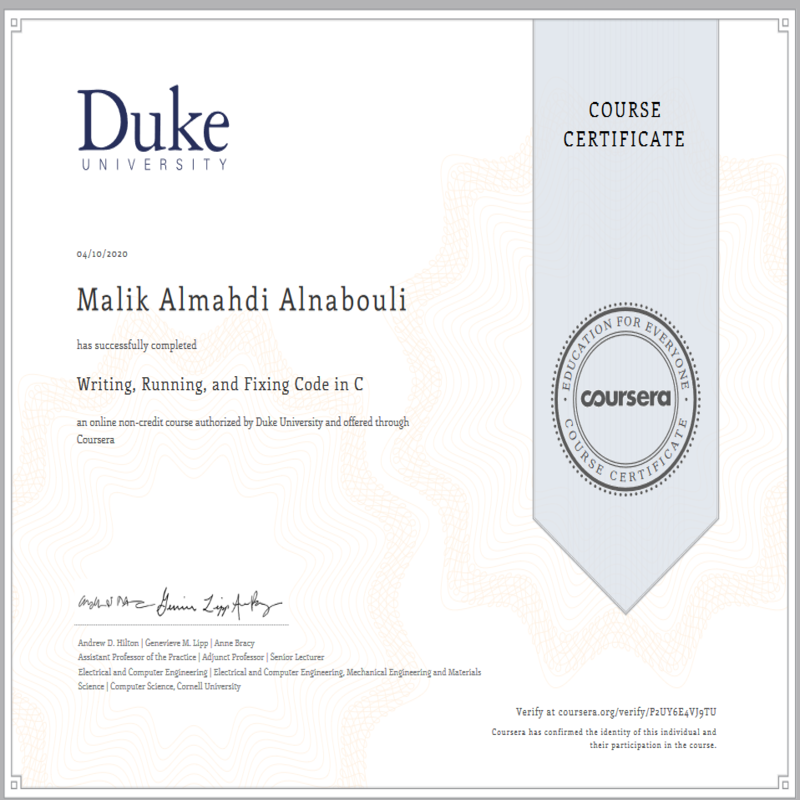
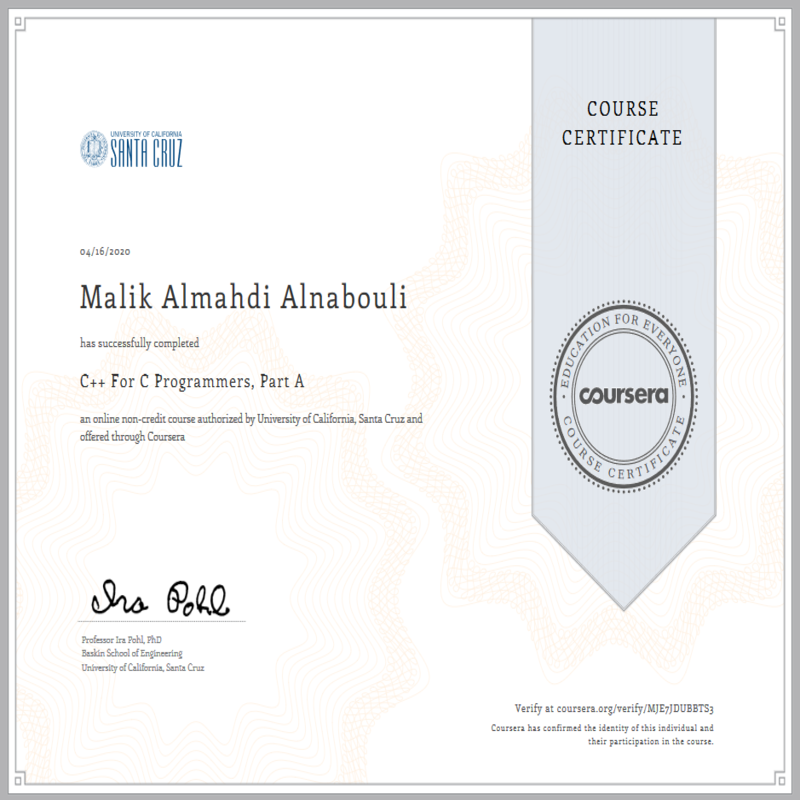
test2

diff --git a/public/css/style.css b/public/css/style.css
@@ -145,22 +145,22 @@ ul {
 
 @media (max-width: 575px) {
     /* line 25, ../../01 cl html template/New folder/May 2019/173 Hipstyle Barber/Hipstyle Barber template/sass/_button.scss */
-    .btn_1 {
+    .btn_2 {
         padding: 9.5px 28px;
-        margin-top: 25px;
+        margin-top: 10px;
     }
 }
 
 @media only screen and (min-width: 576px) and (max-width: 767px) {
     /* line 25, ../../01 cl html template/New folder/May 2019/173 Hipstyle Barber/Hipstyle Barber template/sass/_button.scss */
-    .btn_1 {
+    .btn_2 {
         padding: 9.5px 28px;
     }
 }
 
 @media only screen and (min-width: 768px) and (max-width: 991px) {
     /* line 25, ../../01 cl html template/New folder/May 2019/173 Hipstyle Barber/Hipstyle Barber template/sass/_button.scss */
-    .btn_1 {
+    .btn_2 {
         padding: 9.5px 28px;
     }
 }
@@ -179,6 +179,7 @@ ul {
     color: #fff;
     border: 2px solid #fff;
     font-family: "Roboto", sans-serif;
+    ;
 }
 
 
@@ -186,29 +187,7 @@ ul {
 
 .btn_2:hover {
     background-color: #fff;
-    color: #000;
-}
-
-@media (max-width: 575px) {
-    /* line 56, ../../01 cl html template/New folder/May 2019/173 Hipstyle Barber/Hipstyle Barber template/sass/_button.scss */
-    .btn_2 {
-        padding: 9.5px 28px;
-        margin-top: 25px;
-    }
-}
-
-@media only screen and (min-width: 576px) and (max-width: 767px) {
-    /* line 56, ../../01 cl html template/New folder/May 2019/173 Hipstyle Barber/Hipstyle Barber template/sass/_button.scss */
-    .btn_2 {
-        padding: 9.5px 28px;
-    }
-}
-
-@media only screen and (min-width: 768px) and (max-width: 991px) {
-    /* line 56, ../../01 cl html template/New folder/May 2019/173 Hipstyle Barber/Hipstyle Barber template/sass/_button.scss */
-    .btn_2 {
-        padding: 9.5px 28px;
-    }
+    color: #f81c1c;
 }
 
 
@@ -260,7 +239,7 @@ ul {
 /* line 38, ../../01 cl html template/New folder/May 2019/173 Hipstyle Barber/Hipstyle Barber template/sass/_menu.scss */
 
 .single_page_menu.menu_fixed .main-menu-item ul li .nav-link:hover {
-    color: #000 !important;
+    color: #0c1028 !important;
 }
 
 
@@ -428,7 +407,7 @@ ul {
     }
     /* line 185, ../../01 cl html template/New folder/May 2019/173 Hipstyle Barber/Hipstyle Barber template/sass/_menu.scss */
     .navbar-brand img {
-        max-width: 100px;
+        max-width: 75px;
     }
     /* line 189, ../../01 cl html template/New folder/May 2019/173 Hipstyle Barber/Hipstyle Barber template/sass/_menu.scss */
     .navbar-light .navbar-toggler {
@@ -441,7 +420,7 @@ ul {
 @media only screen and (min-width: 576px) and (max-width: 767px) {
     /* line 198, ../../01 cl html template/New folder/May 2019/173 Hipstyle Barber/Hipstyle Barber template/sass/_menu.scss */
     .main_menu {
-        padding: 10px 0px;
+        padding: 0px 0px;
     }
     /* line 202, ../../01 cl html template/New folder/May 2019/173 Hipstyle Barber/Hipstyle Barber template/sass/_menu.scss */
     .home_menu .main-menu-item {
@@ -914,10 +893,6 @@ ul {
 
 
 /* line 178, ../../01 cl html template/New folder/May 2019/173 Hipstyle Barber/Hipstyle Barber template/sass/_banner.scss */
-
-.banner_part .banner_text .btn_2 {
-    margin-left: 15px;
-}
 
 
 /* line 180, ../../01 cl html template/New folder/May 2019/173 Hipstyle Barber/Hipstyle Barber template/sass/_banner.scss */

diff --git a/resources/views/home.blade.php b/resources/views/home.blade.php
@@ -29,7 +29,7 @@
             <div class="row align-items-center">
                 <div class="col-lg-12">
                     <nav class="navbar navbar-expand-lg navbar-light">
-                        <a class="navbar-brand" href="{{route('home')}}"> <img src="img/logopng3.png" alt="logo"> </a>
+                        <a class="navbar-brand" href="{{route('home')}}"> <img src="img/logopng3.png" alt="Malik's Logo"> </a>
                         <button class="navbar-toggler" type="button" data-toggle="collapse" data-target="#navbarSupportedContent" aria-controls="navbarSupportedContent" aria-expanded="false" aria-label="Toggle navigation">
                             <span style=" top: -16px; right: 11px; color: #fff; font-size: 33px;" class="fa fa-bars"></span>
                         </button>
@@ -120,10 +120,10 @@
                             <h5>Hey there i'm</h5>
                             <h1>Malik Alnabouli</h1>
                             <h2 style="color: white; margin-top: -20px;">Full Stack Developer</h2>
-                            <p>A student at the University of Tripoli, Computer Science <\></p>
+                            <p> student at Tripoli University, Computer Science <\> </p>
                             <div class="banner_btn">
-                                <a href="#" class="btn_1">Contact Me</a>
-                                <a href="#" class="btn_2">Hire Me</a>
+                                {{-- <a href="#" class="btn_1">Contact Me</a> --}}
+                                <a href="#" class="btn_2">Contact Me</a>
                             </div>
                         </div>
                     </div>
@@ -157,7 +157,7 @@
                             <img src="img/web2.png" alt="">
                         </div>
                         <h3>Web Development</h3>
-                        <p>Lorem ipsum dolor sit amet, consectetur adipiscing elit sed do eiusmod tempor.</p>
+                        <p>web publishing, web programming, and database management using laravel, php and mysql.</p>
                     </div>
                 </div>
                 <div class="col-xl-4 col-md-4">
@@ -166,7 +166,7 @@
                             <img src="img/64.png" alt="">
                         </div>
                         <h3>Web Design</h3>
-                        <p>Lorem ipsum dolor sit amet, consectetur adipiscing elit sed do eiusmod tempor.</p>
+                        <p> creates the look, layout, and features of a website using Adobe XD, html, css, js, Bootstrp.</p>
                     </div>
                 </div>
                 <div class="col-xl-4 col-md-4">
@@ -175,7 +175,7 @@
                             <img src="img/php.png" alt="">
                         </div>
                         <h3>PHP Developer</h3>
-                        <p>Lorem ipsum dolor sit amet, consectetur adipiscing elit sed do eiusmod tempor.</p>
+                        <p>fast PHP to a high standard, develop back-end components, connect the application with other web services.</p>
                     </div>
                 </div>
             </div>
@@ -204,16 +204,17 @@
     				<div class="project img ftco-animate d-flex justify-content-center align-items-center" style="background-image: url(img/project/library.png);">
     					<div class="overlay"></div>
 	    				<div class="text text-center p-4">
-	    					<h3><a href="#">Electronic Science Library</a></h3>
+	    					<h3 style="color: #fff;">Electronic Science Library</h3>
 	    					<h5 style="color: #fff;">Web Design</h5>
+                            <p style="color: #fff;" style="color; #fff;"> The Electronic science library was designed to help the students of the college of science to reach decisions, curricula and Tests for the benefit of the student.</p>
 	    				</div>
     				</div>
     			</div>
     			<div class="col-md-4">
-		    				<div class="project img ftco-animate d-flex justify-content-center align-items-center" style="background-image: url(img/project/librarylogo.png);">
+		    				<div class="project img ftco-animate d-flex justify-content-center align-items-center" style="background-image: url(img/project/librarylogo2.png);">
 		    					<div class="overlay"></div>
 			    				<div class="text text-center p-4">
-			    					<h3><a href="#">Electronic Science Library Logo</a></h3>
+			    					<h3 style="color: #fff;">Electronic Science Library Logo</h3>
 	    					        <h5 style="color: #fff;">Visual identity  By:Luqman Kh</h5>
 			    				</div>
 		    				</div>
@@ -222,7 +223,7 @@
     				<div class="project img ftco-animate d-flex justify-content-center align-items-center" style="background-image: url(img/project/doctorlogo2.png);">
     					<div class="overlay"></div>
 	    				<div class="text text-center p-4">
-	    					<h3><a href="#">MyDoctor Logo</a></h3>
+	    					<h3 style="color: #fff;">MyDoctor Logo</h3>
 	    					<h5 style="color: #fff;">Visual identity</h5>
 	    				</div>
     				</div>
@@ -231,8 +232,9 @@
     				<div class="project img ftco-animate d-flex justify-content-center align-items-center" style="background-image: url(img/project/doctor.png);">
     					<div class="overlay"></div>
 	    				<div class="text text-center p-4">
-	    					<h3><a href="#">MyDoctor</a></h3>
+	    					<h3 style="color: #fff;">MyDoctor</h3>
 	    					<h5 style="color: #fff;">Web Design</h5>
+                            <p style="color: #fff;" style="color; #fff;"> website has designed to assist patients to obtain best/topspecialized doctors in every Libyan city through the website.</p>
 	    				</div>
     				</div>
   				</div>
@@ -240,16 +242,17 @@
     				<div class="project img ftco-animate d-flex justify-content-center align-items-center" style="background-image: url(img/project/hyper.png);">
     					<div class="overlay"></div>
 	    				<div class="text text-center p-4">
-	    					<h3><a href="#">Hyper Team</a></h3>
+	    					<h3 style="color: #fff;">Hyper Team</h3>
 	    					<h5 style="color: #fff;">Web Design</h5>
+                            <p style="color: #fff;" style="color; #fff;"> website has designed for my team "Hyper Team" to showcase our services.</p>
 	    				</div>
     				</div>
     			</div>
     			<div class="col-md-4">
-					<div class="project img ftco-animate d-flex justify-content-center align-items-center" style="background-image: url(img/project/malik.png);">
+					<div class="project img ftco-animate d-flex justify-content-center align-items-center" style="background-image: url(img/logoedit.png);">
 	    	     	    <div class="overlay"></div>
          				    <div class="text text-center p-4">
-	    					    <h3><a href="#">Malik Logo</a></h3>
+	    					    <h3 style="color: #fff;">Malik's Logo</h3>
 	        				    <h5 style="color: #fff;">Visual identity</h5>
 						    </div>
 		    		    </div>
@@ -431,7 +434,7 @@ Interested in learning new skills and developing my skills in this field.</p>
                             <span class="fa fa-paper-plane"></span>
                         </div>
                         <h3 class="mb-4">Email Address</h3>
-                        <p><a class="des" href="mailto:maleknp127@gmail.com">maleknp127@gmail.com</a></p>
+                        <p><a class="des" href="mailto:maleknp127@gmail.com">malikalnabouli@gmail.com</a></p>
                     </div>
                 </div>
     <a name="contact2"></a>

diff --git a/resources/views/Certificates.blade.php b/resources/views/Certificates.blade.php
@@ -23,6 +23,13 @@
 .section_title span:before {
     background: #0c1028;
 }
+
+@media (min-width: 992px) {
+    .main_menu .main-menu-item {
+        padding-left: 170px !important;
+    }
+}
+
 </style>
 
 </head>
@@ -264,7 +271,7 @@
               <figure class="img" style="background-image: url('img/cer/12.png')">
               </figure>
               <div class="h-100">
-                <h3 class="mb-4"><a href="https://coursera.org/share/4b4d9b39f6b85a4106f1f494cac090c0">Writing, Running, and Fixing Code in C</a></h3>
+                <h3 class="mb-4"><a href="https://coursera.org/share/ec39f7cc9c354121f2bcf3434337748c">C++ For C Programmers</a></h3>
                 <div class="block__27192 d-flex pt-1 border-top">
                   <a class="jan"><span class="icon-calendar-o"></span> 1 Mar 2020</a>
                   <a style="color: blue;" href="https://www.coursera.org"><span class="icon-person"></span> Coursera</a>
